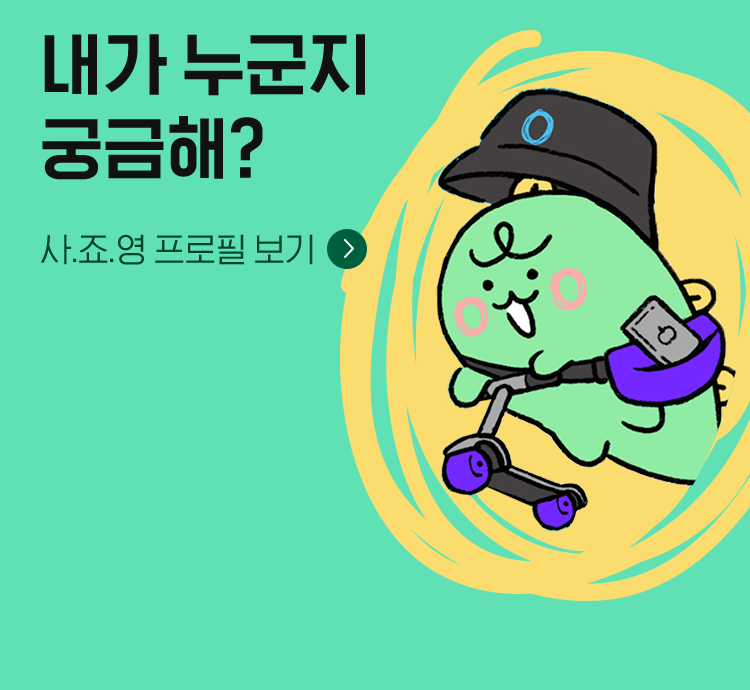
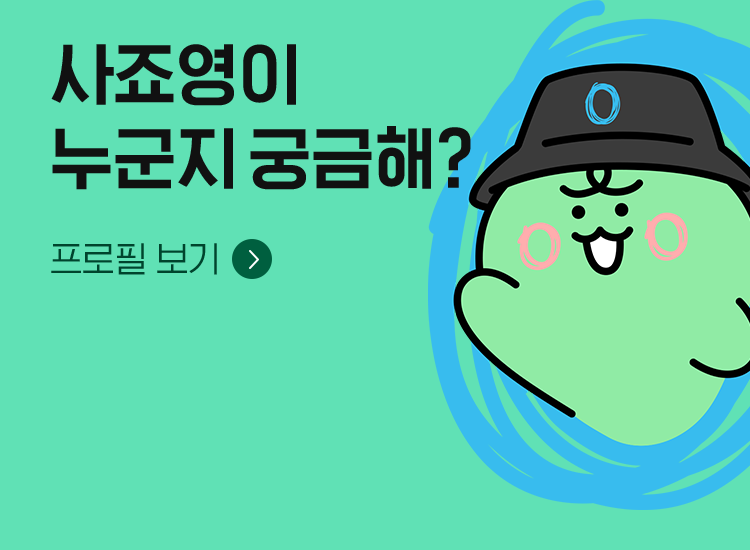
카카오 채널 팝업 추가 및 문구 수정

diff --git a/public/css/style.css b/public/css/style.css
@@ -1,1 +1,1 @@
-@import url("https://fonts.googleapis.com/css?family=Roboto:400,500,700,900");@import url("https://fonts.googleapis.com/css2?family=Noto+Sans+KR:wght@100;300;400;500;700;900&display=swap");@import url("../fonts/S-Core-Dream-light/s-core-dream.css");html{font-size:24px}@media (max-width: 640px){html{font-size:20px}}@media (max-width: 540px){html{font-size:17px}}@media (max-width: 480px){html{font-size:15px}}@media (max-width: 360px){html{font-size:11px}}body{height:100%}#camping{font-family:"s-core-dream-light","Roboto","Noto Sans KR",sans-serif !important;word-break:keep-all;line-height:0;letter-spacing:-0.095em;color:#000}#camping img{max-width:100%}#camping a,#camping button{outline:none}#camping a:focus,#camping a:hover,#camping button:focus,#camping button:hover{webkit-appearance:none}#camping a:link,#camping a:active,#camping a:visited{color:#000}#camping *{outline:none;transition:all 0.3s}.camping__wrap{max-width:750px;margin:0 auto;min-height:100vh;overflow:hidden;background:#60e1b5}.camping--event .camping__wrap{background:#2beec2}.button__close{display:inline-block;width:1.6666666667rem;height:1.6666666667rem;background:url("../images/pop_close.png") 50% 50% no-repeat;background-size:contain;font-size:0}.button__back{display:inline-block;width:1.6666666667rem;height:1.7083333333rem;background:url("../images/icon_back.png") 50% 50% no-repeat;background-size:contain;font-size:0}.button__toon{display:flex;justify-content:center;align-items:center;width:100%;height:3.3333333333rem;border-radius:1.6666666667rem;font-size:1.25rem;color:#000;background:#fff}.button__type1,.button__type2,.button__type3,.button__type5{display:flex;justify-content:center;align-items:center;width:100%;height:3.3333333333rem;border-radius:1.6666666667rem;font-size:1.25rem;font-family:"s-core-dream-light"}.button__type1:disabled,.button__type2:disabled,.button__type3:disabled,.button__type5:disabled{opacity:0.5}.button__type1{background:#000;color:#fff !important}.button__type2{background:#fff;color:#000 !important}.button__type3{background:#e5e5e5;color:#666 !important}.button__type4{width:5rem;height:5rem;font-size:1.25rem;font-family:"s-core-dream-thin";letter-spacing:-0.1em;border-radius:100%;background:#000;padding-top:.0416666667rem;color:#fff !important}.button__type5{font-size:1.4583333333rem;display:inline-flex;width:auto;padding:0 3.625rem;background:#132d24;color:#fff !important}.button__plus{width:2.9166666667rem;height:2.9166666667rem;border-radius:100%;background:#005f3f url("../images/icon_plus.gif") 50% 50% no-repeat;background-size:1.25rem;font-size:0}.button__arrow{width:2.9166666667rem;height:2.9166666667rem;border-radius:100%;background:#ff4e67 url("../images/icon_arrow.png") 50% 50% no-repeat;background-size:1.75rem 1.5rem;font-size:0}.camping__tab{display:flex;justify-content:space-between;align-items:center;padding:2.0833333333rem 1.6666666667rem}.camping__tab a{display:flex;align-items:center;font-family:"s-core-dream-extralight";font-size:1.4583333333rem;padding:.0833333333rem 1.125rem 0 1.0833333333rem;height:2.5rem;border-radius:1.25rem;color:#000}.camping__tab ul{width:89.5%;display:flex;justify-content:space-between}.camping__tab li.active a{background:#fff;font-family:"s-core-dream-bold"}.custom__checkbox{margin:1.5416666667rem 1.6666666667rem 2.4166666667rem}.custom__checkbox label{position:relative;display:block;margin-bottom:.75rem}.custom__checkbox label span{display:block;line-height:1.3;font-size:1.25rem;padding-left:2.875rem}.custom__checkbox label span::before,.custom__checkbox label span::after{content:'';position:absolute}.custom__checkbox label span::before{width:2.0833333333rem;height:2.0833333333rem;background:#fff;border-radius:100%;left:0;top:.125rem}.custom__checkbox label span::after{width:2.0833333333rem;height:1.625rem;background:url("../images/checkbox.png") 0 0 no-repeat;background-size:contain;left:.3333333333rem;top:.0833333333rem;opacity:0}.custom__checkbox label input:checked+span:before{background:#000}.custom__checkbox label input:checked+span:after{opacity:1}.custom__checkbox input[type='checkbox']{position:absolute;top:0;bottom:0;left:0;width:100%;opacity:0}.custom__checkbox a{display:inline-block;line-height:1.1;font-size:1.25rem;border-bottom:1px solid #000;margin-left:2.875rem}.common__notice{line-height:1.8;letter-spacing:-0.087em}.common__notice dt{font-size:1.25rem;font-family:"s-core-dream-light";margin-bottom:.375rem}.common__notice dd{position:relative;font-size:.8333333333rem;padding-left:.8333333333rem;font-family:"s-core-dream-regular"}.common__notice dd::before{content:'';width:.1666666667rem;height:.1666666667rem;border-radius:100%;background:#000;position:absolute;top:.5833333333rem;left:.0416666667rem}.common__etc{margin-top:1.75rem;line-height:1.8;letter-spacing:-0.087em}.common__etc dt{font-size:1.25rem;font-family:"s-core-dream-extralight";margin-bottom:.375rem}.common__etc dd{position:relative;font-size:.8333333333rem}.common__title{padding:0 2.0833333333rem;line-height:1;white-space:nowrap;color:#333}.common__title span{font-size:1.7916666667rem;font-family:"s-core-dream-extralight"}.common__title p{margin-top:1.2083333333rem;font-size:2.5rem;font-family:"s-core-dream-heavy"}.sr-links{border-top:1px dotted #666;padding:1.0416666667rem;line-height:1}.sr-links a{display:inline-block;border:1px solid #333;padding:.4166666667rem .4166666667rem .25rem}.home__timer{line-height:1;margin:.4166666667rem 1.875rem 1.375rem}.home__timer p{font-family:"s-core-dream-bold";font-size:1.25rem;margin-bottom:.5rem}.home__timer em{font-family:"s-core-dream-black";font-size:3.5rem}.home__top{margin:0 1.6666666667rem}.home__top a{display:block;box-shadow:0 0 .8333333333rem 0 rgba(0,0,0,0.25);border-radius:1.6666666667rem;overflow:hidden}.home__banners{margin:1.6666666667rem 0 0}.home__banners .item{display:inline-block;padding:0 1.6666666667rem 0 .625rem;position:relative}.home__banners .item *{outline:none}.home__banners .item a{position:relative;display:block}.home__banners .item a>div{box-shadow:0 0 .8333333333rem 0 rgba(0,0,0,0.25);border-radius:1.6666666667rem;overflow:hidden}.home__banners .item .button__plus{position:absolute;right:1.25rem;bottom:-1.25rem;z-index:2}.home__banners .active .item{padding:0 .625rem 0 1.6666666667rem}.home__banners .active+.active .item{padding:0 1.6666666667rem 0 .625rem}.home__banners .owl-carousel{padding:0 8.125rem 0 0}.home__banners .owl-carousel .owl-dots{margin:1.25rem 0 0 1.6666666667rem;text-align:left}.home__banners .owl-carousel button.owl-dot{width:.8333333333rem;height:.8333333333rem;border-radius:100%;background:#fff;opacity:0.5;margin:0 .8333333333rem 0 0}.home__banners .owl-carousel button.owl-dot.active{opacity:1}.home__links{margin-top:3.3333333333rem;padding:0 1.0416666667rem}.home__links ul{display:flex}.home__links li{flex:1 0 0;padding:0 .625rem}.home__links a{display:block;background:#fff;border-radius:1.25rem;box-shadow:0 0 .8333333333rem 0 rgba(0,0,0,0.25);overflow:hidden}.info__top{position:relative}.info__top a{display:block;position:absolute;background:transparent;top:9.5416666667rem;left:1.6666666667rem;width:44%;height:1.6666666667rem;font-size:0;z-index:2}.info__benefits{position:relative}.info__benefits a{display:block;position:absolute;background:transparent;bottom:6.4583333333rem;left:50%;width:87%;height:5rem;font-size:0;z-index:2;transform:translateX(-50%)}.info__toon-title{position:relative;margin-bottom:.875rem}.info__toon-title span{position:absolute;left:6.6%;bottom:5.5%;width:13%;height:16%;display:flex;justify-content:center;align-items:center;color:#fff;font-size:1.3333333333rem;font-family:"s-core-dream-extralight";padding-top:2px}.info__toon-list{position:relative}.info__toon-list .button__arrow{position:absolute;right:2.0833333333rem;bottom:-1.6666666667rem;z-index:10}.info__toon-nav{margin:3.3333333333rem 0 6.25rem;padding:0 1.625rem}.info__toon-nav ul{display:flex;width:100%;justify-content:space-between}.info__toon-nav li{flex:1 0 0;padding:0 .4583333333rem}.info__toon-nav span{position:relative;display:block;border-radius:.8333333333rem;overflow:hidden}.info__toon-nav span::before{content:'';border-radius:.8333333333rem;opacity:0;position:absolute;left:0;top:0;bottom:0;right:0;border:.2083333333rem solid #ff4e67;z-index:2}.info__toon-nav i{position:absolute;top:.4166666667rem;left:.5rem;z-index:2;font-size:.75rem;line-height:1;font-style:normal;letter-spacing:-0.1em;color:#666}.info__toon-nav li.active span::before{opacity:1}.info__toon-nav li.active i{font-family:"s-core-dream-heavy";color:#ff4e67}.info__toon .item{display:inline-block;padding:0 2.0833333333rem 0 .4166666667rem;position:relative}.info__toon .item *{outline:none}.info__toon .item>div{overflow:hidden;border-radius:1.25rem;box-shadow:0 0 .8333333333rem 0 rgba(0,0,0,0.25)}.info__toon .active{z-index:10}.info__toon .active .item{padding:0 .4166666667rem 0 2.0833333333rem}.info__toon .active .item .button__arrow{opacity:1}.info__toon .active+.active .item{padding:0 2.0833333333rem 0 .4166666667rem}.info__toon .owl-carousel{padding:0 8.75rem 0 0}.info__toon .owl-carousel .owl-dots{margin:1.25rem 0 0 1.6666666667rem;text-align:left}.info__toon .owl-carousel button.owl-dot{width:.8333333333rem;height:.8333333333rem;border-radius:100%;background:#fff;opacity:0.5;margin:0 .8333333333rem 0 0}.info__toon .owl-carousel button.owl-dot.active{opacity:1}.info__qa{margin:1.6666666667rem 0 0;padding-bottom:4.1666666667rem}.info__qa .item{display:inline-block;position:relative}.info__qa .item *{outline:none}.info__qa .item a{position:relative;display:block}.info__qa .item a>div{box-shadow:0 0 .8333333333rem 0 rgba(0,0,0,0.25);border-radius:1.6666666667rem;overflow:hidden}.info__qa .item .button__plus{position:absolute;right:1.25rem;bottom:-1.25rem;z-index:2}.info__qa .owl-carousel{padding:0}.info__qa .owl-carousel .owl-dots{margin:0 0 0 2.0833333333rem;text-align:left}.info__qa .owl-carousel button.owl-dot{width:.8333333333rem;height:.8333333333rem;border-radius:100%;background:#fff;opacity:0.5;margin:0 .8333333333rem 0 0}.info__qa .owl-carousel button.owl-dot.active{opacity:1}.goods__top-slide{position:relative;padding-top:2.125rem}.goods__top-slide .item{display:inline-block;padding:0 3.3333333333rem 0 .625rem;position:relative}.goods__top-slide .item *{outline:none}.goods__top-slide .active .item{padding:0 .625rem 0 3.3333333333rem}.goods__top-slide .active+.active .item{padding:0 3.3333333333rem 0 .625rem}.goods__top-slide .owl-carousel{margin-top:3.25rem;padding:0 3.9583333333rem 0 0}.goods__top-slide .owl-carousel .owl-dots{margin-top:1.25rem;text-align:center}.goods__top-slide .owl-carousel button.owl-dot{width:.8333333333rem;height:.8333333333rem;border-radius:100%;background:#b0f0da;margin:0 .4166666667rem}.goods__top-slide .owl-carousel button.owl-dot.active{background:#fff}.goods__top-slide .top-slide-box{border-radius:1.6666666667rem;box-shadow:0 .8333333333rem 1.6666666667rem rgba(0,0,0,0.25);overflow:hidden;position:relative}.goods__top-slide .top-slide-box a{position:absolute;right:0;bottom:0;background:transparent;z-index:2;font-size:0;width:39.3%;height:14.5%;display:inline-block}.goods__top-slide .top-slide-box.disabled a{left:0;top:0;width:100%;height:100%;background:#1b5e47;opacity:0.8}.goods__banner{padding:4.4583333333rem 0 4.1666666667rem}.goods__banner ul{margin:3.4166666667rem 0 0 2.0833333333rem}.goods__banner a{display:block}.goods__top-buttons{margin:2.0833333333rem 2.0833333333rem 6.25rem}.goods__info{padding:3.75rem 2.0833333333rem 2.0833333333rem;background:#fee780}.goods__info .common__notice{margin-top:4.5rem}.goods__info-texts .text1{font-family:"s-core-dream-thin";font-size:3.3333333333rem;line-height:1.18;letter-spacing:-0.055em}.goods__info-texts .text2{margin-top:1.125rem;font-family:"s-core-dream-extralight";font-size:1.25rem;line-height:1.35;letter-spacing:-0.06em}.goods__info-texts .text2+.text2{margin-top:1.6666666667rem}.goods__info-agree{margin-top:3.125rem}.event__info{padding:0 2.0833333333rem 3.75rem}.event__info .common__notice{margin-top:2rem}.event__info-agree{margin-top:2.0833333333rem}.event__info-buttons button+button{margin-top:.8333333333rem}.event__popup-buttons{display:flex}.event__popup-buttons li{flex:1 0 0}.event__popup-buttons li+li{margin-left:1.25rem}.event__main{padding:2.1666666667rem 1.6666666667rem 4.1666666667rem}.event__main .common__title{padding:0}.event__main-top{border-radius:1.6666666667rem;box-shadow:0 .8333333333rem 1.6666666667rem rgba(0,0,0,0.25);color:#333;background:#fff;height:27.9166666667rem;overflow:hidden;padding:2.5416666667rem 2.375rem}.event__main-toggle{margin-top:4.2083333333rem}.event__main-lists{position:relative;margin-top:1.9583333333rem;padding:0 1.6666666667rem 0 0}.event__main-lists li{border-radius:1.6666666667rem;box-shadow:0 .8333333333rem 1.6666666667rem rgba(0,0,0,0.25);color:#333;background:#fff;height:6.4583333333rem;overflow:hidden}.event__main-lists li+li{margin-top:1.25rem}.event__main-lists li dl{padding:2.5rem 2.5rem 0;line-height:1;height:100%;white-space:nowrap}.event__main-lists li dt{font-size:1.5rem}.event__main-lists li dd{padding-top:.7083333333rem;opacity:0;min-height:0}.event__main-lists li dd p{font-size:2.1666666667rem;font-family:"s-core-dream-heavy"}.event__main-lists li.active{height:15rem}.event__main-lists li.active dd{opacity:1;min-height:inherit}.event__main-lists .dots{position:absolute;right:-.4166666667rem;bottom:1.25rem;width:.8333333333rem}.event__main-lists .dots button{width:100%;height:.8333333333rem;background:#fff;border-radius:100%;font-size:0;opacity:0.5;margin-top:.8333333333rem}.event__main-lists .dots button.active{opacity:1}.popup{position:fixed;top:0;bottom:0;left:0;right:0;width:100%;height:100%;background:rgba(0,0,0,0.8);opacity:0;z-index:-10;display:flex;justify-content:center;align-items:center}.popup.opened{opacity:1;z-index:10}.popup__box{position:relative;width:89.33%;max-width:670px;background:#fff;border-radius:1.6666666667rem;overflow:hidden}.popup__box .button__close{position:absolute;top:1.25rem;right:1.25rem;z-index:5}.popup__title{margin-top:2.2916666667rem;font-size:1.4583333333rem;font-family:"s-core-dream-light";line-height:1.48;text-align:center}.popup__title:first-child{margin-top:0}.popup__contents{-webkit-overflow-scrolling:touch;max-height:65vh;overflow-y:auto;margin:3.4583333333rem 1.6666666667rem 0;line-height:1;-ms-overflow-style:none;scrollbar-width:none}.popup__contents::-webkit-scrollbar{width:10px;display:none}.popup__buttons{margin-top:1.3333333333rem;padding:0 1.6666666667rem 1.6666666667rem;text-align:center}.popup__buttons ul{display:flex}.popup__buttons li{flex:1 0 auto}.popup__buttons li+li{margin-left:.8333333333rem}.popup-alert .popup__box{width:78.66%;max-width:590px;padding:4rem 1.6666666667rem 1.6666666667rem}.popup-alert.opened{z-index:20}.popup-alert__msg{font-size:1.25rem;text-align:center;line-height:1.3;margin:0 -1.6666666667rem}.popup-alert__button{text-align:center;margin-top:1.9166666667rem}.popup-image .popup__contents{background:#dcdcdc}.popup-image .popup__buttons{text-align:center;margin-top:1.6666666667rem}.popup-privacy .text1{margin-top:.5rem;font-size:1rem;line-height:1.5}.popup-privacy table{margin-top:.9583333333rem;width:100%;table-layout:fixed}.popup-privacy th,.popup-privacy td{font-size:.9166666667rem;color:#000;border:1px solid #d5d5d5;line-height:1.5;vertical-align:middle}.popup-privacy th{text-align:center;background:#eee;font-family:"s-core-dream-extralight";padding:.75rem 0 .7083333333rem}.popup-privacy td{font-family:"s-core-dream-regular";padding:.7083333333rem .8333333333rem .625rem}.popup-privacy ul{margin-top:.5416666667rem;font-size:.8333333333rem;font-family:"s-core-dream-regular";line-height:1.7}.popup-privacy li{position:relative;padding-left:.5416666667rem}.popup-privacy li::before{content:'*';position:absolute;left:0;top:0}.popup-complete .popup__contents{padding:0}.popup-complete__top{padding:1.8333333333rem 1.6666666667rem 4rem}.popup-complete__top span{display:block;margin-top:1.4166666667rem;font-size:1rem;line-height:1.6}.camping--event .popup-complete__top{background:#2beec2}.camping--goods .popup-complete__top{background:#fdcf00}.popup-complete__sns{margin-top:2.625rem;padding:0 1.875rem}.popup-complete__sns p{text-align:center;font-size:1rem;line-height:1.6}.popup-complete__sns ul{margin:1.25rem 0 1.2916666667rem;display:flex;justify-content:space-between}.popup-my .popup__box,.popup-form .popup__box{width:73.33%;max-width:550px}.popup-my .popup__buttons,.popup-form .popup__buttons{margin-top:1.7916666667rem}.popup-my__info{margin-top:1.2083333333rem;border-top:2px solid #000}.popup-my__info li{display:flex;padding:1.125rem .5416666667rem 1.0833333333rem;border-bottom:1px solid #d5d5d5;font-size:1.1666666667rem;font-family:"s-core-dream-light";white-space:nowrap}.popup-my__info span{width:8.3333333333rem}.popup-my__text{line-height:1.6;margin:.8333333333rem 0 .3333333333rem;font-size:1rem}.popup-form select{-webkit-appearance:none;-moz-appearance:none;appearance:none;background:url("../images/select.png") 100% 53% no-repeat;background-size:1.9583333333rem auto}.popup-form select,.popup-form input{font-family:"s-core-dream-extralight";font-size:1.1666666667rem;padding-left:1.1666666667rem;width:100%;height:3.3333333333rem;line-height:3.3333333333rem;padding-top:.0833333333rem;border-radius:0;border:1px solid #d5d5d5;background-color:#fff;color:#000}.popup-form select::placeholder,.popup-form input::placeholder{color:#000}.popup-form .text1{margin-top:.5rem;font-size:1rem;line-height:1.45;text-align:center;white-space:nowrap;letter-spacing:-0.09em}.popup-form__inputs{padding:.25rem 0 0}.popup-form__inputs li{margin-top:1.25rem}.popup-form__inputs .label{display:block;font-size:1rem;margin-bottom:.6666666667rem}.popup-form dl{line-height:1.6;margin-top:1.3333333333rem}.popup-form dt{font-size:1.1666666667rem;margin-bottom:.3333333333rem}.popup-form dd{font-size:1rem;position:relative;padding-left:.6666666667rem}.popup-form dd::before{content:'-';position:absolute;left:0;top:0}.popup-toon__box .button__close{top:.9166666667rem;right:.9166666667rem;width:3.5833333333rem;height:3.5833333333rem;background-image:url("../images/pop_close2.png")}.popup-toon .popup__contents{margin:0;max-height:95vh}.popup-toon .owl-carousel .owl-dots{margin:1.6666666667rem 0 2.0833333333rem;text-align:center}.popup-toon .owl-carousel button.owl-dot{width:.8333333333rem;height:.8333333333rem;border-radius:100%;background:#d6d6d6;margin:0 .8333333333rem 0 0}.popup-toon .owl-carousel button.owl-dot.active{background:#60e1b5}.popup-toon__image{width:100%;overflow:hidden}.popup-toon__image img{max-width:100%}.popup-toon__info{text-align:center;color:#333;letter-spacing:-0.12em}.popup-toon__title{margin-top:.0833333333rem;font-size:1.9166666667rem;font-family:"s-core-dream-heavy";line-height:1.4}.popup-toon__text{margin-top:1.4166666667rem;font-size:1.25rem;line-height:1.4}.popup-toon__text p{opacity:0.8}.popup-toon__text p+p{margin-top:.5833333333rem}.popup-toon__text .point1{color:#16c287}.popup-toon__text .point2{color:#ff8181;margin-top:1.4583333333rem}.owl-carousel .owl-stage-outer{overflow:visible}
+@import url("https://fonts.googleapis.com/css?family=Roboto:400,500,700,900");@import url("https://fonts.googleapis.com/css2?family=Noto+Sans+KR:wght@100;300;400;500;700;900&display=swap");@import url("../fonts/S-Core-Dream-light/s-core-dream.css");html{font-size:24px}@media (max-width: 640px){html{font-size:20px}}@media (max-width: 540px){html{font-size:17px}}@media (max-width: 480px){html{font-size:15px}}@media (max-width: 360px){html{font-size:11px}}body{height:100%}#camping{font-family:"s-core-dream-light","Roboto","Noto Sans KR",sans-serif !important;word-break:keep-all;line-height:0;letter-spacing:-0.095em;color:#000}#camping img{max-width:100%}#camping a,#camping button{outline:none}#camping a:focus,#camping a:hover,#camping button:focus,#camping button:hover{webkit-appearance:none}#camping a:link,#camping a:active,#camping a:visited{color:#000}#camping *{outline:none;transition:all 0.3s}.camping__wrap{max-width:750px;margin:0 auto;min-height:100vh;overflow:hidden;background:#60e1b5}.camping--event .camping__wrap{background:#2beec2}.button__close{display:inline-block;width:1.6666666667rem;height:1.6666666667rem;background:url("../images/pop_close.png") 50% 50% no-repeat;background-size:contain;font-size:0}.button__back{display:inline-block;width:1.6666666667rem;height:1.7083333333rem;background:url("../images/icon_back.png") 50% 50% no-repeat;background-size:contain;font-size:0}.button__toon{display:flex;justify-content:center;align-items:center;width:100%;height:3.3333333333rem;border-radius:1.6666666667rem;font-size:1.25rem;color:#000;background:#fff}.button__type1,.button__type2,.button__type3,.button__type5{display:flex;justify-content:center;align-items:center;width:100%;height:3.3333333333rem;border-radius:1.6666666667rem;font-size:1.25rem;font-family:"s-core-dream-light"}.button__type1:disabled,.button__type2:disabled,.button__type3:disabled,.button__type5:disabled{opacity:0.5}.button__type1{background:#000;color:#fff !important}.button__type2{background:#fff;color:#000 !important}.button__type3{background:#e5e5e5;color:#666 !important}.button__type4{width:5rem;height:5rem;font-size:1.25rem;font-family:"s-core-dream-thin";letter-spacing:-0.1em;border-radius:100%;background:#000;padding-top:.0416666667rem;color:#fff !important}.button__type5{font-size:1.4583333333rem;display:inline-flex;width:auto;padding:0 3.625rem;background:#132d24;color:#fff !important}.button__plus{width:2.9166666667rem;height:2.9166666667rem;border-radius:100%;background:#005f3f url("../images/icon_plus.gif") 50% 50% no-repeat;background-size:1.25rem;font-size:0}.button__arrow{width:2.9166666667rem;height:2.9166666667rem;border-radius:100%;background:#ff4e67 url("../images/icon_arrow.png") 50% 50% no-repeat;background-size:1.75rem 1.5rem;font-size:0}.camping__tab{display:flex;justify-content:space-between;align-items:center;padding:2.0833333333rem 1.6666666667rem}.camping__tab a{display:flex;align-items:center;font-family:"s-core-dream-extralight";font-size:1.4583333333rem;padding:.0833333333rem 1.125rem 0 1.0833333333rem;height:2.5rem;border-radius:1.25rem;color:#000}.camping__tab ul{width:89.5%;display:flex;justify-content:space-between}.camping__tab li.active a{background:#fff;font-family:"s-core-dream-bold"}.custom__checkbox{margin:1.5416666667rem 1.6666666667rem 2.4166666667rem}.custom__checkbox label{position:relative;display:block;margin-bottom:.75rem}.custom__checkbox label span{display:block;line-height:1.3;font-size:1.25rem;padding-left:2.875rem}.custom__checkbox label span::before,.custom__checkbox label span::after{content:'';position:absolute}.custom__checkbox label span::before{width:2.0833333333rem;height:2.0833333333rem;background:#fff;border-radius:100%;left:0;top:.125rem}.custom__checkbox label span::after{width:2.0833333333rem;height:1.625rem;background:url("../images/checkbox.png") 0 0 no-repeat;background-size:contain;left:.3333333333rem;top:.0833333333rem;opacity:0}.custom__checkbox label input:checked+span:before{background:#000}.custom__checkbox label input:checked+span:after{opacity:1}.custom__checkbox input[type='checkbox']{position:absolute;top:0;bottom:0;left:0;width:100%;opacity:0}.custom__checkbox a{display:inline-block;line-height:1.1;font-size:1.25rem;border-bottom:1px solid #000;margin-left:2.875rem}.common__notice{line-height:1.8;letter-spacing:-0.087em}.common__notice dt{font-size:1.25rem;font-family:"s-core-dream-light";margin-bottom:.375rem}.common__notice dd{position:relative;font-size:.8333333333rem;padding-left:.8333333333rem;font-family:"s-core-dream-regular"}.common__notice dd::before{content:'';width:.1666666667rem;height:.1666666667rem;border-radius:100%;background:#000;position:absolute;top:.5833333333rem;left:.0416666667rem}.common__etc{margin-top:1.75rem;line-height:1.8;letter-spacing:-0.087em}.common__etc dt{font-size:1.25rem;font-family:"s-core-dream-extralight";margin-bottom:.375rem}.common__etc dd{position:relative;font-size:.8333333333rem}.common__title{padding:0 2.0833333333rem;line-height:1;white-space:nowrap;color:#333}.common__title span{font-size:1.7916666667rem;font-family:"s-core-dream-extralight"}.common__title p{margin-top:1.2083333333rem;font-size:2.5rem;font-family:"s-core-dream-heavy"}.sr-links{border-top:1px dotted #666;padding:1.0416666667rem;line-height:1}.sr-links a{display:inline-block;border:1px solid #333;padding:.4166666667rem .4166666667rem .25rem}.home__timer{line-height:1;margin:.4166666667rem 1.875rem 1.375rem}.home__timer p{font-family:"s-core-dream-bold";font-size:1.25rem;margin-bottom:.5rem}.home__timer em{font-family:"s-core-dream-black";font-size:3.5rem}.home__top{margin:0 1.6666666667rem}.home__top a{display:block;box-shadow:0 0 .8333333333rem 0 rgba(0,0,0,0.25);border-radius:1.6666666667rem;overflow:hidden}.home__banners{margin:1.6666666667rem 0 0}.home__banners .item{display:inline-block;padding:0 1.6666666667rem 0 .625rem;position:relative}.home__banners .item *{outline:none}.home__banners .item a{position:relative;display:block}.home__banners .item a>div{box-shadow:0 0 .8333333333rem 0 rgba(0,0,0,0.25);border-radius:1.6666666667rem;overflow:hidden}.home__banners .item .button__plus{position:absolute;right:1.25rem;bottom:-1.25rem;z-index:2}.home__banners .active .item{padding:0 .625rem 0 1.6666666667rem}.home__banners .active+.active .item{padding:0 1.6666666667rem 0 .625rem}.home__banners .owl-carousel{padding:0 8.125rem 0 0}.home__banners .owl-carousel .owl-dots{margin:1.25rem 0 0 1.6666666667rem;text-align:left}.home__banners .owl-carousel button.owl-dot{width:.8333333333rem;height:.8333333333rem;border-radius:100%;background:#fff;opacity:0.5;margin:0 .8333333333rem 0 0}.home__banners .owl-carousel button.owl-dot.active{opacity:1}.home__links{margin-top:3.3333333333rem;padding:0 1.0416666667rem}.home__links ul{display:flex}.home__links li{flex:1 0 0;padding:0 .625rem}.home__links a{display:block;background:#fff;border-radius:1.25rem;box-shadow:0 0 .8333333333rem 0 rgba(0,0,0,0.25);overflow:hidden}.info__top{position:relative}.info__top a{display:block;position:absolute;background:transparent;top:9.9583333333rem;left:1.6666666667rem;width:32%;height:1.6666666667rem;font-size:0;z-index:2}.info__benefits,.info__toon,.info__qa{border-radius:3.3333333333rem 0 0;overflow:hidden;margin-top:-3.3333333333rem}.info__benefits{position:relative;padding-bottom:3.3333333333rem;background:#8feccc}.info__benefits a{display:block;position:absolute;background:transparent;bottom:9.5833333333rem;left:50%;width:87%;height:5rem;font-size:0;z-index:2;transform:translateX(-50%)}.info__toon{background:#f9c1c9;padding-bottom:9.5833333333rem}.info__toon-title{position:relative;margin-bottom:.875rem}.info__toon-title span{position:absolute;left:6.6%;bottom:5.5%;width:13%;height:16%;display:flex;justify-content:center;align-items:center;color:#fff;font-size:1.3333333333rem;font-family:"s-core-dream-extralight";padding-top:2px}.info__toon-list{position:relative}.info__toon-list .button__arrow{position:absolute;right:2.0833333333rem;bottom:-1.6666666667rem;z-index:10}.info__toon-nav{margin:3.3333333333rem 0 0;padding:0 1.625rem}.info__toon-nav ul{display:flex;width:100%;justify-content:space-between}.info__toon-nav li{flex:1 0 0;padding:0 .4583333333rem}.info__toon-nav span{position:relative;display:block;border-radius:.8333333333rem;overflow:hidden}.info__toon-nav span::before{content:'';border-radius:.8333333333rem;opacity:0;position:absolute;left:0;top:0;bottom:0;right:0;border:.2083333333rem solid #ff4e67;z-index:2}.info__toon-nav i{position:absolute;top:.4166666667rem;left:.5rem;z-index:2;font-size:.75rem;line-height:1;font-style:normal;letter-spacing:-0.1em;color:#666}.info__toon-nav li.active span::before{opacity:1}.info__toon-nav li.active i{font-family:"s-core-dream-heavy";color:#ff4e67}.info__toon .item{display:inline-block;padding:0 2.0833333333rem 0 .4166666667rem;position:relative}.info__toon .item *{outline:none}.info__toon .item>div{overflow:hidden;border-radius:1.25rem;box-shadow:0 0 .8333333333rem 0 rgba(0,0,0,0.25)}.info__toon .active{z-index:10}.info__toon .active .item{padding:0 .4166666667rem 0 2.0833333333rem}.info__toon .active .item .button__arrow{opacity:1}.info__toon .active+.active .item{padding:0 2.0833333333rem 0 .4166666667rem}.info__toon .owl-carousel{padding:0 8.75rem 0 0}.info__toon .owl-carousel .owl-dots{margin:1.25rem 0 0 1.6666666667rem;text-align:left}.info__toon .owl-carousel button.owl-dot{width:.8333333333rem;height:.8333333333rem;border-radius:100%;background:#fff;opacity:0.5;margin:0 .8333333333rem 0 0}.info__toon .owl-carousel button.owl-dot.active{opacity:1}.info__qa{padding-bottom:4.1666666667rem}.info__qa .item{display:inline-block;position:relative}.info__qa .item *{outline:none}.info__qa .item a{position:relative;display:block}.info__qa .item a>div{box-shadow:0 0 .8333333333rem 0 rgba(0,0,0,0.25);border-radius:1.6666666667rem;overflow:hidden}.info__qa .item .button__plus{position:absolute;right:1.25rem;bottom:-1.25rem;z-index:2}.info__qa .owl-carousel{padding:0}.info__qa .owl-carousel .owl-dots{margin:0 0 0 2.0833333333rem;text-align:left}.info__qa .owl-carousel button.owl-dot{width:.8333333333rem;height:.8333333333rem;border-radius:100%;background:#fff;opacity:0.5;margin:0 .8333333333rem 0 0}.info__qa .owl-carousel button.owl-dot.active{opacity:1}.goods__top-slide{position:relative;padding-top:2.125rem}.goods__top-slide .item{display:inline-block;padding:0 3.3333333333rem 0 .625rem;position:relative}.goods__top-slide .item *{outline:none}.goods__top-slide .active .item{padding:0 .625rem 0 3.3333333333rem}.goods__top-slide .active+.active .item{padding:0 3.3333333333rem 0 .625rem}.goods__top-slide .owl-carousel{margin-top:3.25rem;padding:0 3.9583333333rem 0 0}.goods__top-slide .owl-carousel .owl-dots{margin-top:1.25rem;text-align:center}.goods__top-slide .owl-carousel button.owl-dot{width:.8333333333rem;height:.8333333333rem;border-radius:100%;background:#b0f0da;margin:0 .4166666667rem}.goods__top-slide .owl-carousel button.owl-dot.active{background:#fff}.goods__top-slide .top-slide-box{border-radius:1.6666666667rem;box-shadow:0 .8333333333rem 1.6666666667rem rgba(0,0,0,0.25);overflow:hidden;position:relative}.goods__top-slide .top-slide-box a{position:absolute;right:0;bottom:0;background:transparent;z-index:2;font-size:0;width:39.3%;height:14.5%;display:inline-block}.goods__top-slide .top-slide-box.disabled a{left:0;top:0;width:100%;height:100%;background:#1b5e47;opacity:0.8}.goods__banner{padding:4.4583333333rem 0 4.1666666667rem}.goods__banner ul{margin:3.4166666667rem 0 0 2.0833333333rem}.goods__banner a{display:block}.goods__top-buttons{margin:2.0833333333rem 2.0833333333rem 6.25rem}.goods__info{padding:3.75rem 2.0833333333rem 2.0833333333rem;background:#fee780}.goods__info .common__notice{margin-top:4.5rem}.goods__info-texts .text1{font-family:"s-core-dream-thin";font-size:3.3333333333rem;line-height:1.18;letter-spacing:-0.055em}.goods__info-texts .text2{margin-top:1.125rem;font-family:"s-core-dream-extralight";font-size:1.25rem;line-height:1.35;letter-spacing:-0.06em}.goods__info-texts .text2+.text2{margin-top:1.6666666667rem}.goods__info-agree{margin-top:3.125rem}.event__info{padding:0 2.0833333333rem 3.75rem}.event__info .common__notice{margin-top:2rem}.event__info-agree{margin-top:2.0833333333rem}.event__info-buttons button+button{margin-top:.8333333333rem}.event__popup-buttons{display:flex}.event__popup-buttons li{flex:1 0 0}.event__popup-buttons li+li{margin-left:1.25rem}.event__main{padding:2.1666666667rem 1.6666666667rem 4.1666666667rem}.event__main .common__title{padding:0}.event__main-top{border-radius:1.6666666667rem;box-shadow:0 .8333333333rem 1.6666666667rem rgba(0,0,0,0.25);color:#333;background:#fff;height:27.9166666667rem;overflow:hidden;padding:2.5416666667rem 2.375rem}.event__main-toggle{margin-top:4.2083333333rem}.event__main-lists{position:relative;margin-top:1.9583333333rem;padding:0 1.6666666667rem 0 0}.event__main-lists li{border-radius:1.6666666667rem;box-shadow:0 .8333333333rem 1.6666666667rem rgba(0,0,0,0.25);color:#333;background:#fff;height:6.4583333333rem;overflow:hidden}.event__main-lists li+li{margin-top:1.25rem}.event__main-lists li dl{padding:2.5rem 2.5rem 0;line-height:1;height:100%;white-space:nowrap}.event__main-lists li dt{font-size:1.5rem}.event__main-lists li dd{padding-top:.7083333333rem;opacity:0;min-height:0}.event__main-lists li dd p{font-size:2.1666666667rem;font-family:"s-core-dream-heavy"}.event__main-lists li.active{height:15rem}.event__main-lists li.active dd{opacity:1;min-height:inherit}.event__main-lists .dots{position:absolute;right:-.4166666667rem;bottom:1.25rem;width:.8333333333rem}.event__main-lists .dots button{width:100%;height:.8333333333rem;background:#fff;border-radius:100%;font-size:0;opacity:0.5;margin-top:.8333333333rem}.event__main-lists .dots button.active{opacity:1}.popup{position:fixed;top:0;bottom:0;left:0;right:0;width:100%;height:100%;background:rgba(0,0,0,0.8);opacity:0;z-index:-10;display:flex;justify-content:center;align-items:center}.popup.opened{opacity:1;z-index:10}.popup__box{position:relative;width:89.33%;max-width:670px;background:#fff;border-radius:1.6666666667rem;overflow:hidden}.popup__box .button__close{position:absolute;top:1.25rem;right:1.25rem;z-index:5}.popup__title{margin-top:2.2916666667rem;font-size:1.4583333333rem;font-family:"s-core-dream-light";line-height:1.48;text-align:center}.popup__title:first-child{margin-top:0}.popup__contents{-webkit-overflow-scrolling:touch;max-height:65vh;overflow-y:auto;margin:3.4583333333rem 1.6666666667rem 0;line-height:1;-ms-overflow-style:none;scrollbar-width:none}.popup__contents::-webkit-scrollbar{width:10px;display:none}.popup__buttons{margin-top:1.3333333333rem;padding:0 1.6666666667rem 1.6666666667rem;text-align:center}.popup__buttons ul{display:flex}.popup__buttons li{flex:1 0 auto}.popup__buttons li+li{margin-left:.8333333333rem}.popup-alert .popup__box{width:78.66%;max-width:590px;padding:4rem 1.6666666667rem 1.6666666667rem}.popup-alert.opened{z-index:20}.popup-alert__msg{font-size:1.25rem;text-align:center;line-height:1.3;margin:0 -1.6666666667rem}.popup-alert__button{text-align:center;margin-top:1.9166666667rem}.popup-image .popup__contents{background:#dcdcdc}.popup-image .popup__buttons{text-align:center;margin-top:1.6666666667rem}.popup-privacy .text1{margin-top:.5rem;font-size:1rem;line-height:1.5}.popup-privacy table{margin-top:.9583333333rem;width:100%;table-layout:fixed}.popup-privacy th,.popup-privacy td{font-size:.9166666667rem;color:#000;border:1px solid #d5d5d5;line-height:1.5;vertical-align:middle}.popup-privacy th{text-align:center;background:#eee;font-family:"s-core-dream-extralight";padding:.75rem 0 .7083333333rem}.popup-privacy td{font-family:"s-core-dream-regular";padding:.7083333333rem .8333333333rem .625rem}.popup-privacy ul{margin-top:.5416666667rem;font-size:.8333333333rem;font-family:"s-core-dream-regular";line-height:1.7}.popup-privacy li{position:relative;padding-left:.5416666667rem}.popup-privacy li::before{content:'*';position:absolute;left:0;top:0}.popup-complete .popup__contents{padding:0}.popup-complete__top{padding:1.8333333333rem 1.6666666667rem 4rem}.popup-complete__top span{display:block;margin-top:1.4166666667rem;font-size:1rem;line-height:1.6}.camping--event .popup-complete__top{background:#2beec2}.camping--goods .popup-complete__top{background:#fdcf00}.popup-complete__sns{margin-top:2.625rem;padding:0 1.875rem}.popup-complete__sns p{text-align:center;font-size:1rem;line-height:1.6}.popup-complete__sns ul{margin:1.25rem 0 1.2916666667rem;display:flex;justify-content:space-between}.popup-my .popup__box,.popup-form .popup__box{width:73.33%;max-width:550px}.popup-my .popup__buttons,.popup-form .popup__buttons{margin-top:1.7916666667rem}.popup-my__info{margin-top:1.2083333333rem;border-top:2px solid #000}.popup-my__info li{display:flex;padding:1.125rem .5416666667rem 1.0833333333rem;border-bottom:1px solid #d5d5d5;font-size:1.1666666667rem;font-family:"s-core-dream-light";white-space:nowrap}.popup-my__info span{width:8.3333333333rem}.popup-my__text{line-height:1.6;margin:.8333333333rem 0 .3333333333rem;font-size:1rem}.popup-form select{-webkit-appearance:none;-moz-appearance:none;appearance:none;background:url("../images/select.png") 100% 53% no-repeat;background-size:1.9583333333rem auto}.popup-form select,.popup-form input{font-family:"s-core-dream-extralight";font-size:1.1666666667rem;padding-left:1.1666666667rem;width:100%;height:3.3333333333rem;line-height:3.3333333333rem;padding-top:.0833333333rem;border-radius:0;border:1px solid #d5d5d5;background-color:#fff;color:#000}.popup-form select::placeholder,.popup-form input::placeholder{color:#000}.popup-form .text1{margin-top:.5rem;font-size:1rem;line-height:1.45;text-align:center;white-space:nowrap;letter-spacing:-0.09em}.popup-form__inputs{padding:.25rem 0 0}.popup-form__inputs li{margin-top:1.25rem}.popup-form__inputs .label{display:block;font-size:1rem;margin-bottom:.6666666667rem}.popup-form dl{line-height:1.6;margin-top:1.3333333333rem}.popup-form dt{font-size:1.1666666667rem;margin-bottom:.3333333333rem}.popup-form dd{font-size:1rem;position:relative;padding-left:.6666666667rem}.popup-form dd::before{content:'-';position:absolute;left:0;top:0}.popup-toon .popup__box .button__close{top:.9166666667rem;right:.9166666667rem;width:3.5833333333rem;height:3.5833333333rem;background-image:url("../images/pop_close2.png")}.popup-toon .popup__contents{margin:0;max-height:95vh}.popup-toon .owl-carousel .owl-dots{margin:1.6666666667rem 0 2.0833333333rem;text-align:center}.popup-toon .owl-carousel button.owl-dot{width:.8333333333rem;height:.8333333333rem;border-radius:100%;background:#d6d6d6;margin:0 .8333333333rem 0 0}.popup-toon .owl-carousel button.owl-dot.active{background:#60e1b5}.popup-toon__image{width:100%;overflow:hidden}.popup-toon__image img{max-width:100%}.popup-toon__info{text-align:center;color:#333;letter-spacing:-0.12em}.popup-toon__title{margin-top:.0833333333rem;font-size:1.9166666667rem;font-family:"s-core-dream-heavy";line-height:1.4}.popup-toon__text{margin-top:1.4166666667rem;font-size:1.25rem;line-height:1.4}.popup-toon__text p{opacity:0.8}.popup-toon__text p+p{margin-top:.5833333333rem}.popup-toon__text .point1{color:#16c287}.popup-toon__text .point2{color:#ff8181;margin-top:1.4583333333rem}.popup-kakao .popup__box .button__close{top:.9166666667rem;right:.9166666667rem;width:3.5833333333rem;height:3.5833333333rem;background-image:url("../images/pop_close2.png")}.popup-kakao .popup__contents{margin-top:4.1666666667rem}.popup-kakao .button__type5{width:100%;padding:0}.owl-carousel .owl-stage-outer{overflow:visible}

diff --git a/public/info.html b/public/info.html
@@ -29,15 +29,15 @@
     <section class="camping__content">
       <!-- 캠핑 소개 상단(s) -->
       <article class="info__top">
-        <img src="images/info/top.png" alt="내가 누군지 궁금해?" />
-        <a href="#">사죠영 프로필 보기</a>
+        <img src="images/info/top.png" alt="사죠영이 누군지 궁금해?" />
+        <a href="#">프로필 보기</a>
       </article>
       <!-- 캠핑 소개 상단(e) -->
 
       <!-- 캠핑 특전(s) -->
       <article class="info__benefits">
-        <img src="images/info/benefits.png" alt="얼리버드 특전" />
-        <a href="#">얼리버드 신청해영</a>
+        <img src="images/info/benefits.png" alt="새로운 아이폰 미리미리 관심 등록! 사죠영 얼리버드 특전" />
+        <a href="javascript:popupOpen('kakao');">T다이렉트샵 카카오톡채널에서 얼리버드 신청해영</a>
       </article>
       <!-- 캠핑 특전(e) -->
 
@@ -131,6 +131,25 @@
       <!-- 캠핑 소개 12문 12답(e) -->
     </section>
   </div>
+
+  <!-- 캠핑인더시티 신청방법(s) -->
+  <article class="popup popup-image popup-kakao">
+    <div class="popup__box">
+      <span class="button__close" onclick="popupClose($(this))">close</span>
+      <section class="popup__contents">
+        채널 바로가기 내용
+        <br /><br /><br /><br /><br /><br /><br /><br /><br /><br /><br /><br /><br />
+        <br /><br /><br /><br /><br /><br /><br /><br /><br /><br /><br /><br /><br />
+        <br /><br /><br /><br /><br /><br /><br /><br /><br /><br /><br /><br /><br />
+      </section>
+      <div class="popup__buttons">
+        <button type="button" class="button__type5" onclick="popupClose($(this))">
+          T다이렉트샵 카카오톡 채널 바로가기
+        </button>
+      </div>
+    </div>
+  </article>
+  <!-- 캠핑인더시티 신청방법(s) -->
 
   <!-- 사죠영 인스타툰 1화(s) -->
   <article class="popup popup-toon popup-toon1">
@@ -271,6 +290,14 @@
     </div>
   </article>
   <!-- 사죠영 인스타툰 2화(e) -->
+
+  <!-- alert 팝업 실행 :: 개발 시 삭제 -->
+  <div class="sr-links">
+    <a href="javascript:popupOpen('kakao')">카카오톡 채널 바로가기</a>
+    <!--
+    <a href="javascript:alertPopup(true, 'already');">이미참여</a>
+    -->
+  </div>
 
   <script type="text/javascript">
     infoQa();

diff --git a/public/scss/style.scss b/public/scss/style.scss
@@ -436,23 +436,33 @@ body {
       display: block;
       position: absolute;
       background: transparent;
-      top: rem(229);
+      top: rem(239);
       left: rem(40);
-      width: 44%;
+      width: 32%;
       height: rem(40);
       font-size: 0;
       z-index: 2;
     }
   }
 
+  &__benefits,
+  &__toon,
+  &__qa {
+    border-radius: rem(80) 0 0;
+    overflow: hidden;
+    margin-top: rem(-80);
+  }
+
   &__benefits {
     position: relative;
+    padding-bottom: rem(80);
+    background: #8feccc;
 
     a {
       display: block;
       position: absolute;
       background: transparent;
-      bottom: rem(155);
+      bottom: rem(230);
       left: 50%;
       width: 87%;
       height: rem(120);
@@ -463,6 +473,9 @@ body {
   }
 
   &__toon {
+    background: #f9c1c9;
+    padding-bottom: rem(230);
+
     &-title {
       position: relative;
       margin-bottom: rem(21);
@@ -495,7 +508,7 @@ body {
     }
 
     &-nav {
-      margin: rem(80) 0 rem(150);
+      margin: rem(80) 0 0;
       padding: 0 rem(39);
 
       ul {
@@ -603,7 +616,6 @@ body {
   }
 
   &__qa {
-    margin: rem(40) 0 0;
     padding-bottom: rem(100);
 
     .item {
@@ -1187,7 +1199,7 @@ body {
   }
 
   &-toon {
-    &__box {
+    .popup__box {
       .button__close {
         top: rem(22);
         right: rem(22);
@@ -1253,6 +1265,27 @@ body {
       }
       .point1 {color: #16c287;}
       .point2 {color: #ff8181; margin-top: rem(35);}
+    }
+  }
+
+  &-kakao {
+    .popup__box {
+      .button__close {
+        top: rem(22);
+        right: rem(22);
+        width: rem(86);
+        height: rem(86);
+        background-image: url('../images/pop_close2.png');
+      }
+    }
+
+    .popup__contents {
+      margin-top: rem(100);
+    }
+
+    .button__type5 {
+      width: 100%;
+      padding: 0;
     }
   }
 }
